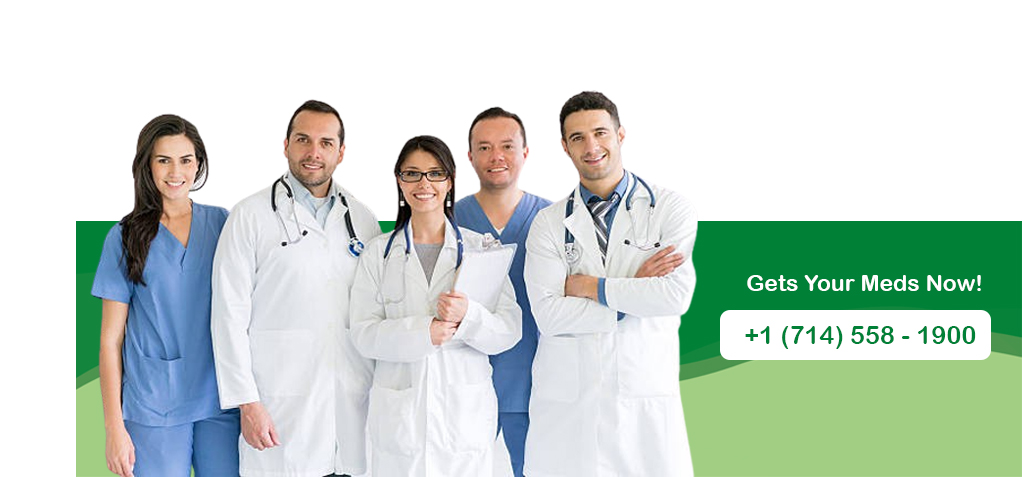
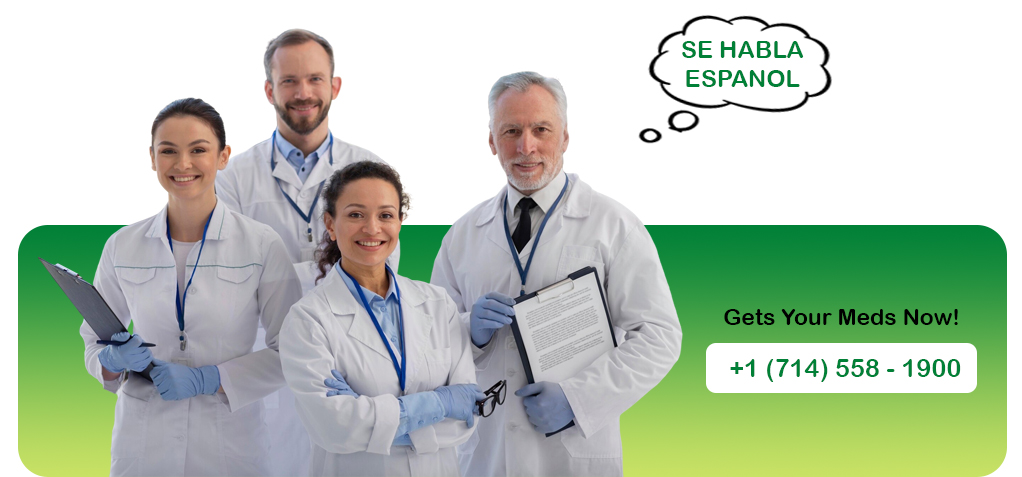
Added New Pic

diff --git a/index.html b/index.html
@@ -265,7 +265,7 @@
 
     <!-- doctor img -->
     <div class="container-xxl mb-5 text-center">
-        <img src="img/banner_contact02.jpg" alt="" style="max-width: 100%;">	
+        <img src="img/banner_contact.jpg" alt="" style="max-width: 100%;">	
     </div>
     <!-- end doctor img -->
 
